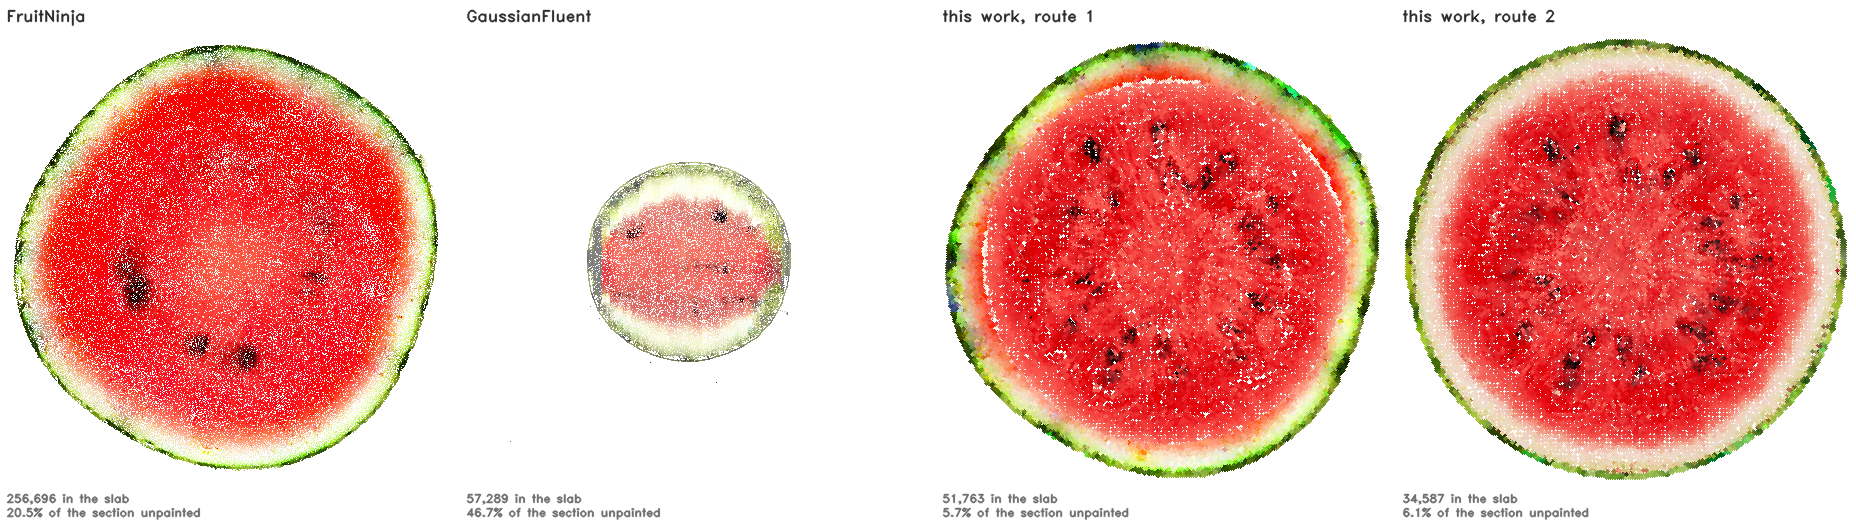
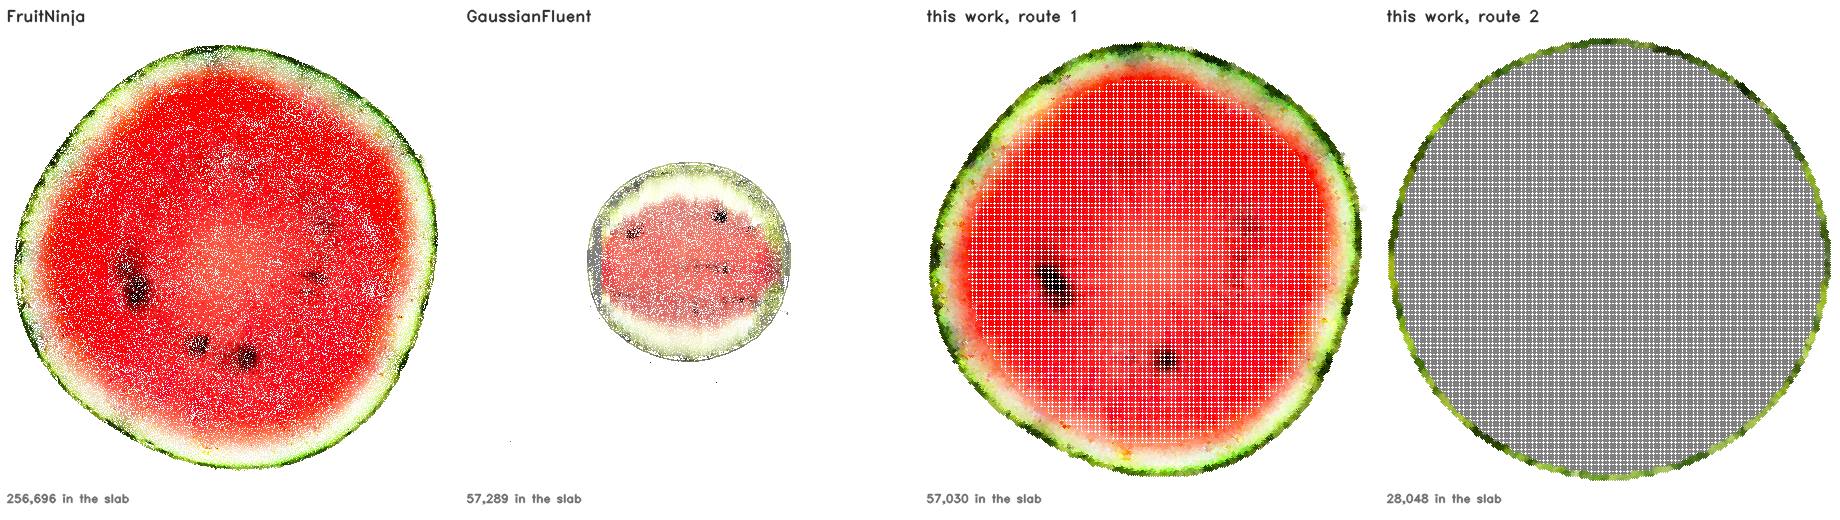
Round two of three
The retracted coverage numbers were still printed inside interiors_compared.png,
so the figure went on asserting what the prose withdrew. slab_compare no longer
draws them and the figure is regenerated; rerunning it also showed our own two
columns are 16.7% and 22.3% rather than the 5.7% and 6.1% the page had, which is
a second reason they are gone.

The skin-fraction correction had been applied to two places out of three and the
stale copy was the paragraph that frames section 4.1. The conclusion still said
'coverage is not the differentiator' while the abstract and the new sweep said
the opposite. Both fixed.

The rho reference is a piecewise-constant nearest-cell lookup and the page cited
equation (18), which is trilinear and has a one-cell support -- the distinction
the whole argument rests on. The collapse sweep is against the uncollapsed grid
and not an analytic surface, so it measures what the collapse discards.

The shell experiment is now honest about its field: it is not equation (14) but
the weak two-rule field, its numbers are the orange preset applied to the
doughnut, and because the interior is graded the shell-to-stiffest-interior
contrast is 1.33x rather than the 13x quoted.

Equation (9) had no prose anywhere; it has a paragraph. q_P, epsilon, E_min,
E_max and the percentile's domain are defined. The resolution sweep states its
six cuts, its one object and its spread. The orphaned blue-channel table has a
[…]

diff --git a/index.html b/index.html
@@ -688,7 +688,8 @@ $$ \mathbf{k}(\mathbf{p}) = \left\lfloor \frac{\mathbf{p} - \mathbf{o}}{h_\ell} 
 figure writes them \(h_e\) and \(h_0\). Two symbols are reused in this paper and it is worth
 saying so once: \(\tau\) is the dual-grid collapse tolerance in equation&nbsp;(12) and the
 shell-to-solver-grid ratio in equation&nbsp;(15), and \(\beta\) is the skin band width in fine
-cells in equations (2), (6) and (15) and a material class's shell fraction in equation&nbsp;(14).
+cells in equations (2) and (6) and in the prose around (15), and a material class's shell fraction
+in equation&nbsp;(14).
 They are unrelated quantities that convention gives the same letters.</p>
 
 <p>With the origin \(\mathbf{o}\) of equation&nbsp;(1) offset by half a cell. The offset is not
@@ -824,6 +825,13 @@ $$ q(\mathbf{k}) = \operatorname{sgn}\!\left(\mathbf{n}\cdot\mathbf{x}_{\mathbf{
 $$ \left|\mathbf{n}\cdot\mathbf{x} + d\right| \;\le\; \tfrac{1}{2}\,h \textstyle\sum_a \left|n_a\right| $$
 </div><div class="num">(9)</div></div>
 
+<p>Equation (9) is the crossing test, and it is used twice. A cell of side \(h\) centred at
+\(\mathbf{x}\) is cut by the plane exactly when its centre lies within half the cell's diagonal
+extent along \(\mathbf{n}\), which is the right-hand side; that decides which cells are refined.
+It also bounds how far a point inside a cell can be from the plane, which is what section 4.3.5
+uses to explain why occupancy alone claims material on both sides of a cut and why one sign test
+removes exactly that band and nothing else.</p>
+
 <p>Adjacency is arithmetic too. A leaf's neighbour is at its own level or coarser (were it finer, the finer leaves on the shared face would find this one), so the coarser candidate is the
 neighbour's coordinate shifted right, which is floor division and therefore the cell containing
 it. With \(Q\) planes a leaf carries a <em>side code</em>, the \(Q\) signs at its centre, and
@@ -852,8 +860,7 @@ $$ \Pi_{\mathbf{k}} = \bigl\{\, \mathbf{x} \in C_{\mathbf{k}} :
 
 <p>Converting only the cut face would require a second renderer and a per-pixel visibility rule
 between it and the first; converting the whole boundary removes both. It is also necessary rather
-than convenient: a Gaussian shell covers only a fifth to a quarter of the frame at alpha above one half on the
-objects measured here, and 7 to 20% on the ones the previous project measured, so
+than convenient: a Gaussian shell covers only 7 to 20% of the frame at alpha above one half, so
 at the silhouette a cut face shows through from the side it should be hidden on.</p>
 
 <p>Converting only the cut face and leaving the photographed outside as Gaussians is what makes
@@ -898,8 +905,12 @@ $$ \sqrt{r / w} \;\le\; \tau\,h, \qquad w = \text{planes the block covers}, $$
 <h4>3.7.2&ensp;Collapse tolerance against surface error</h4>
 
 <p>The collapse has one parameter, \(\tau\) in equation (12), and what it buys has to be read
-against what it costs. Sweeping it on a shape whose exact surface is known gives both at once: the
-node count that survives, and how far the surface moved to reach it.</p>
+against what it costs. Sweeping it on the orange's own dual grid gives both at once: the node
+count that survives, and how far the surface moved to reach it. The distances are to the
+uncollapsed grid and not to an analytic surface, so this is a self-consistency measure of what the
+collapse discards rather than a surface-error measure against ground truth; the identity row
+reproduces the uncollapsed mesh, which is what makes it the reference. All distances are in units
+of \(h\).</p>
 
 <div class="tw"><table>
 <thead><tr><th>\(\tau\)</th><th>nodes</th><th>of uniform</th><th>node&nbsp;&rarr;&nbsp;surface</th><th>surface&nbsp;&rarr;&nbsp;node</th><th>symmetric</th><th>95th</th><th>triangles</th></tr></thead>
@@ -927,9 +938,12 @@ refined.</p>
 
 <div class="eq"><div class="body">
 $$ \operatorname{occ}_P(\mathbf{x}) \;=\;
-   \bigl[\, \operatorname{leaf}(\mathbf{x}) \in P \,\bigr] \;\wedge\;
-   \bigl[\, q_P \left(\mathbf{n}\cdot\mathbf{x} + d\right) > 0 \,\bigr] $$
+   \bigl[\, \operatorname{leaf}(\mathbf{x}) \in P \,\bigr] \;\wedge\;   \bigl[\, q_P \left(\mathbf{n}\cdot\mathbf{x} + d\right) > 0 \,\bigr] $$
 </div><div class="num">(13)</div></div>
+
+<p>\(q_P \in \{+1, -1\}\) is the side of the plane piece \(P\) lies on, taken as the sign
+that the majority of its leaves carry under equation&nbsp;(8); \(\operatorname{leaf}(\mathbf{x})\)
+is the leaf containing \(\mathbf{x}\), found by the floor division of equation&nbsp;(4).</p>
 
 <p>Near the cut the voxel test claims material up to half a leaf past where the cut is, because a
 leaf the plane passes through is occupied as a whole. One comparison fixes it: the point must be on
@@ -943,12 +957,14 @@ the ordering rather than the absolute value is the claim,</p>
 
 <div class="eq"><div class="body">
 $$ u_j = 0.65\,\beta_j + 0.35\,\mathcal{R}(L)_j,
-   \qquad
-   E_j = E_{\min} + \mathcal{R}(u)_j \,\bigl( E_{\max} - E_{\min} \bigr) $$
+   \qquad   E_j = E_{\min} + \mathcal{R}(u)_j \,\bigl( E_{\max} - E_{\min} \bigr) $$
 </div><div class="num">(14)</div></div>
 
 <p>where \(\beta_j\) is the fraction of class \(j\)'s cells in the skin band, \(L_j\) its
-mean luminance, and \(\mathcal{R}\) the rank normalised to \([0,1]\). Each piece then carries a
+mean luminance, \(\mathcal{R}\) the rank normalised to \([0,1]\), and
+\(E_{\min} = 10^5\), \(E_{\max} = 5\times10^6\) the ends of the range the ordering is mapped
+onto. The weights 0.65 and 0.35 are the previous project's and are fixed rather than fitted; what
+is claimed is the ordering they produce, not the values. Each piece then carries a
 per-particle stiffness field instead of one modulus, and the solver runs once per piece.</p>
 
 <p>Whether the solver can see any of that is a separate question, and it is decided before the
@@ -960,9 +976,10 @@ governs a hard shell is the shell's thickness in the solver's own units,</p>
 $$ \tau = \frac{t_{\text{shell}} / L}{\Delta x}, \qquad
    \Delta x = \frac{\text{grid\_lim}}{n_{\text{grid}}}, \qquad
    t_{\text{shell}} = P_{90}\Bigl( \min_{\mathbf{k}' \notin \mathcal{S}}
-       \lVert \mathbf{x}_{\mathbf{k}} - \mathbf{x}_{\mathbf{k}'} \rVert \Bigr)
-       + \tfrac{1}{2} h_f $$
+       \lVert \mathbf{x}_{\mathbf{k}} - \mathbf{x}_{\mathbf{k}'} \rVert \Bigr)       + \tfrac{1}{2} h_f $$
 </div><div class="num">(15)</div></div>
+
+<p>The percentile in (15) is over the shell cells \(\mathbf{k} \in \mathcal{S}\).</p>
 
 <p>where \(L\) is the object's own extent, because the solver normalises the object into its
 grid box and a world length only reaches \(\Delta x\) through that scaling; \(\text{grid\_lim}\)
@@ -991,12 +1008,12 @@ reaches further without a length scale being chosen anywhere,</p>
 
 <div class="eq"><div class="body">
 $$ w_{vj} = \frac{\tilde{w}_{vj}}{\sum_{j'} \tilde{w}_{vj'}}, \qquad
-   \tilde{w}_{vj} = \Bigl( 1 - r_{vj}^2 \Bigr)_{\!+}^{3} + \varepsilon, \qquad
-   r_{vj} = \frac{\lVert \mathbf{x}_v(0) - \mathbf{x}_j(0) \rVert}
+   \tilde{w}_{vj} = \Bigl( 1 - r_{vj}^2 \Bigr)_{\!+}^{3} + \varepsilon, \qquad   r_{vj} = \frac{\lVert \mathbf{x}_v(0) - \mathbf{x}_j(0) \rVert}
                  {\max_{j' \in \mathcal{N}_k(v)} \lVert \mathbf{x}_v(0) - \mathbf{x}_{j'}(0) \rVert} $$
 </div><div class="num">(17)</div></div>
 
-<p>Because the weights sum to one and are fixed at bind time, any affine motion of the particles is
+<p>\(\varepsilon = 10^{-12}\), which only keeps the outermost weight from being exactly zero.
+Because the weights sum to one and are fixed at bind time, any affine motion of the particles is
 followed exactly: substituting \(\mathbf{x}_j(t) = \mathbf{A}\mathbf{x}_j(0) + \mathbf{b}\)
 into (16) gives \(\mathbf{x}_v(t) = \mathbf{A}\mathbf{x}_v(0) + \mathbf{b}\), which is why the
 residual below is a statement about bending and not about drift.</p>
@@ -1078,11 +1095,11 @@ object.</p>
 
 <p>Every downstream operation reads three things and nothing else: occupancy at two levels, face
 adjacency, and one feature per cell. Both routes emit exactly these, so cutting, the physics and
-the material field cannot tell which route produced a lattice. One stage can, and it is the surface
-conversion: it colours from skin cells when they are more than a fifth of the lattice, and a
-generated lattice is 44 to 53% skin where a quantised one is 13.5%, so the two fall on opposite
-sides of that test. That exception is stated here rather than at the end because it is the only
-one, and the rest of this section measures the operations for which the claim holds.</p>
+the material field cannot tell which route produced a lattice. One stage can distinguish two lattices, and it turns out
+not to distinguish the routes: the surface conversion colours from skin cells when they are more
+than a fifth of the lattice, and which side of that test a lattice falls on depends on the object.
+The note below gives the six measured skin fractions. The rest of this section measures the
+operations for which the route-independence claim holds.</p>
 
 <h4>4.1.1&ensp;Four properties of the cut</h4>
 
@@ -1197,18 +1214,19 @@ therefore be compared on the same object, from the same source file.</p>
 
 <p>Storage says what each costs, not what each produced. Every method has its own frame, scale and
 renderer, so a comparison of the interiors routes through none of them: for each model, the plane
-through its own centroid, the primitives within a slab 1% of its own extent, projected
-orthographically, normalised by its own projected radius, opaque and nearest-first, which all three
+through its own centroid, the primitives within a slab of half-width 1% of its own extent, so
+2% thick, projected orthographically, normalised by its own projected radius, opaque and nearest-first, which all three
 are, at median and tenth-percentile opacity 1.0000.</p>
 
 <figure>
   <img src="assets/interiors_compared.png" alt="A watermelon cross-section from four
-       representations: FruitNinja, GaussianFluent, and this work's two routes">
-  <figcaption>The same slab through the same fruit, four ways, with every primitive drawn at its
+       representations: FruitNinja, GaussianFluent, and this work's two routes">  <figcaption>The same slab through the same fruit, four ways, with every primitive drawn at its
   own footprint: \(\sigma\) for a Gaussian, \(h\) for a cell. GaussianFluent's sits smaller in
-  frame because its released model's bounding box carries more than the melon and the normalisation
-  is per model. Read this as what each primitive <em>covers</em>, and not as what each method draws:
-  the next paragraph is why.</figcaption>
+  frame because each model is normalised by its own projected radius and its released file carries
+  more than the melon. This figure used to have an unpainted percentage printed under each tile and
+  no longer does, because those numbers were reported as cut-face fidelity and are not: read it as
+  what each primitive <em>covers</em>, which is the question it does answer, and see the table
+  below for what each method draws.</figcaption>
 </figure>
 
 <div class="note"><strong>An earlier version of this page reported that figure's unpainted
@@ -1242,8 +1260,10 @@ Gaussian, and the sentence an earlier version of this page put here, that a cube
 without a parameter, was not supported by it.</p>
 
 <p>And a coverage number at one pixel count says nothing, which is the objection that retired the
-footprint figure and applies here too. Swept over resolution, on twelve cuts each, with the cube
-volume rendered by cube lookup rather than by splatting:</p>
+footprint figure and applies here too. Swept over resolution, on the watermelon, six transverse
+cuts per cell, with the cube volume rendered by cube lookup rather than by splatting. The row above
+is a hundred cuts at 512&nbsp;px and these are six at each of three sizes; they are separate
+experiments and the counts are given so they are not read as one:</p>
 
 <div class="tw"><table>
 <thead><tr><th>unpainted inside the section, watermelon</th><th>256&nbsp;px</th><th>1024&nbsp;px</th><th>2048&nbsp;px</th></tr></thead>
@@ -1256,13 +1276,15 @@ volume rendered by cube lookup rather than by splatting:</p>
 </tbody></table></div>
 
 <p>This is the claim, and it is not the one the withdrawn figure made. Coverage from a splatted
-representation is resolution-dependent for every model including ours: at 512&nbsp;px they are all
-under a percent and indistinguishable, and by 2048&nbsp;px GaussianFluent's section is 39%
-background, FruitNinja's 2.4% and our own splatted lattice's 3.3%. The cube volume does not move,
+representation is resolution-dependent for every model including ours: at 256&nbsp;px they are all
+under two tenths of a percent and indistinguishable, and by 2048&nbsp;px GaussianFluent's section
+is 39% background (32.9 to 49.5 across the six cuts), FruitNinja's 2.4% (1.5 to 3.4) and our own
+splatted lattice's 3.3% (2.5 to 3.8), against the cube volume's 0.06% (0.05 to 0.07). The cube volume does not move,
 0.02% to 0.06% over three octaves, because a cell's support is the cell and a pixel either falls
 inside an occupied one or does not. What a Gaussian buys with enough primitives at a chosen zoom, a
-cube has by construction at every zoom, and that is a property of the representation rather than a
-number that happens to come out well.</p>
+cube has by construction at every zoom, and that follows from what a cell is rather than from a
+number that happened to come out well. It is measured on one object at three image sizes, on six
+cuts each, and the other two objects and the intervening sizes are not run.</p>
 
 <div class="tw"><table>
 <thead><tr><th>watermelon</th><th>FruitNinja</th><th>GaussianFluent</th><th>this work, route 1</th><th>route 2</th></tr></thead>
@@ -1295,7 +1317,10 @@ number that happens to come out well.</p>
 bigger. FruitNinja [3] asserts the trade in the form \(\rho \ll 1\) leaves holes in the volume and
 \(\rho \gtrsim 1\) blends across material boundaries, and asserting a trade is not the same as
 showing that no setting of its parameter escapes one. This measures both branches against a reference with no scale
-parameter at all: the cube lookup of equation (18), which reads the cell containing each pixel.
+parameter at all: a piecewise-constant cube lookup that gives each pixel the colour of the cell
+containing it, so every cell edge is a step and there is no support to tune. That is not equation
+(18), which reconstructs trilinearly over eight cell centres and therefore has a one-cell support
+of its own.
 Holes are pixels inside the true section the Gaussian render left as background. Blending is how
 much more the Gaussian render disagrees with that reference <em>at material boundaries</em> than it
 does away from them, since a large Gaussian disagrees with a piecewise-constant reference
@@ -1318,12 +1343,15 @@ everywhere simply by being smooth, and only the excess is blending.</p>
 <tr><td>3.00</td><td>0.0%</td><td>+0.197</td><td>0.0%</td><td>+0.105</td><td class="mut">n/a</td><td class="mut">n/a</td></tr>
 </tbody></table></div>
 
-<p>At 1024&nbsp;px, on this work's own primitive set so that only \(\sigma\) changes. Both branches
+<p>At 1024&nbsp;px, one plane through the middle of each object, the same plane for every
+\(\rho\), on this work's own primitive set so that only \(\sigma\) changes. The doughnut's
+missing cells are values not swept for it rather than failures. Both branches
 are there and neither is avoidable, but the curve is not the one that assertion implies. The hole
 branch does not bite gradually below one: it is flat and severe from \(10^{-4}\) to \(0.05\) and
 then collapses to nothing between 0.10 and 0.25. The blending branch rises through \(\rho = 2\) on all
-three objects, to a mean absolute colour disagreement of 0.23 at material boundaries beyond what
-the same render shows away from them; on the orange it then falls back to 0.197 at \(\rho = 3\),
+three objects, reaching a mean absolute colour disagreement at material boundaries, beyond what the
+same render shows away from them, of 0.226 on the orange, 0.097 on the watermelon and 0.074 on the
+doughnut; on the orange it then falls back to 0.197 at \(\rho = 3\),
 where the primitives are large enough to be disagreeing everywhere. Between them is a
 window, roughly \(0.25 \le \rho \le 0.5\), where a Gaussian set does pay very little for either,
 and the models this work trains sit inside it at a median \(\rho\) of 0.26.</p>
@@ -1331,7 +1359,7 @@ and the models this work trains sit inside it at a median \(\rho\) of 0.26.</p>
 <p>So the answer to "just make them bigger" is: on a fixed primitive set it works, within a window
 you have to find, and it is not what the published models do. FruitNinja sits at
 \(\rho = 3\times10^{-5}\) and GaussianFluent lower still, four and six orders of magnitude to the
-left of that window, where the table says 17 to 45% of a section is unpainted for a primitive set
+left of that window, where the table says 16 to 45% of a section is unpainted for a primitive set
 of this size. Their renders are not full of holes because they buy coverage the other way, with 7,959,789 and 1,381,100 primitives against this
 lattice's 1,741,169 quantised and 1,065,856 generated. The sweep above is on the orange's 877,494,
 which is a lattice of one particular size; whether an 8-million-primitive set at \(\rho = 0.25\)
@@ -1649,7 +1677,7 @@ says the doughnut needs about seven fine cells. Building it at four settings:</p
 <h4>4.3.4&ensp;Solver response across the threshold</h4>
 
 <p>The arithmetic says a shell under two grid cells cannot hold a stiffness contrast. Simulating
-both settings says whether that is what happens. The object falls under its own weight with the material field applied, skin at 8.0e6 and interior at 6.0e5 for a contrast of 13&times;, and the solver reports each body's extent along the gravity axis as a fraction of its rest extent,
+both settings says whether that is what happens. The object falls under its own weight with the material field applied, and the solver reports each body's extent along the gravity axis as a fraction of its rest extent,
 separately for the cells the field called skin and the ones it called interior. A hard shell keeps
 its own extent and lets the interior lose more, so the sign of the gap between them is the
 question, not its size.</p>
@@ -1662,6 +1690,16 @@ question, not its size.</p>
 <tr><td>\(\beta = 3\), falling and cut</td><td>1.17</td><td>0.9264</td><td>0.9333</td><td><strong>+0.0070</strong></td></tr>
 <tr><td>\(\beta = 7\), falling and cut</td><td>2.06</td><td>0.9280</td><td>0.9177</td><td><strong>&minus;0.0103</strong></td></tr>
 </tbody></table></div>
+
+<p>Three things about that field, none of them in an earlier version of this section. It is not
+equation&nbsp;(14): it is the weak two-rule field of <code>material_field.py</code>, level deciding
+skin from interior and lightness grading the interior, which is the version a learned decomposition
+has to beat rather than the clustered one equation&nbsp;(14) defines. Its numbers are the
+<code>orange</code> preset, 8.0e6 against 6.0e5, applied to the doughnut. And the interior is
+graded rather than constant, spanning 6.0e5 to 6.0e6, so the contrast between the shell and the
+stiffest interior is 1.33&times; and not the 13&times; a shell-against-softest reading gives. A
+1.33&times; contrast is a weak thing to look for a threshold with, and it is part of why the effect
+is small.</p>
 
 <p>The four gaps are 0.16%, 0.40%, 0.70% and 1.03% of the object's extent, so the effect is a
 fraction of a percent at three of the four settings and reaches 1% at one. Each cell is a single
@@ -1789,7 +1827,7 @@ from.</p>
 
 <div class="tw"><table>
 <thead><tr><th>transverse</th><th></th><th>route 1 (3DGS), the baseline</th><th>route 2 (3DGS)</th>
-<th>route 1 (O&#8209;Voxel)</th><th>route 2 (O&#8209;Voxel)</th></tr></thead>
+<th>route 1 (cube)</th><th>route 2 (cube)</th></tr></thead>
 <tbody>
 <tr><td rowspan="3">orange</td><td>FID</td><td>86.4</td><td><strong>66.5</strong></td><td>130.5</td><td>107.9</td></tr>
 <tr><td>KID</td><td>125.0e-3</td><td><strong>88.7e-3</strong></td><td>208.4e-3</td><td>158.8e-3</td></tr>
@@ -1812,7 +1850,7 @@ from.</p>
 
 <div class="tw"><table>
 <thead><tr><th>longitudinal</th><th></th><th>route 1 (3DGS), the baseline</th><th>route 2 (3DGS)</th>
-<th>route 1 (O&#8209;Voxel)</th><th>route 2 (O&#8209;Voxel)</th></tr></thead>
+<th>route 1 (cube)</th><th>route 2 (cube)</th></tr></thead>
 <tbody>
 <tr><td rowspan="3">orange</td><td>FID</td><td><strong>147.6</strong></td><td>247.3</td><td>292.6</td><td>370.2</td></tr>
 <tr><td>KID</td><td><strong>175.3e-3</strong></td><td>303.7e-3</td><td>437.3e-3</td><td>585.4e-3</td></tr>
@@ -1822,8 +1860,13 @@ from.</p>
 <tr><td>CLIP</td><td>33.4</td><td>33.7</td><td>33.6</td><td><strong>34.7</strong></td></tr>
 </tbody></table></div>
 
+<p>One statistic separates the two routes where FID does not, and it is given here for what it
+is rather than as a result: the mean blue channel over the pulp region of a section, on the orange,
+which is a proxy for how grey the flesh reads. Closer to the photographs is better, and route 2
+matches them transversally and overshoots longitudinally.</p>
+
 <div class="tw"><table>
-<thead><tr><th>pulp, blue channel</th><th>photographs</th><th>baseline</th><th>route 2</th></tr></thead>
+<thead><tr><th>orange, pulp, mean blue channel</th><th>photographs</th><th>route 1</th><th>route 2</th></tr></thead>
 <tbody>
 <tr><td>transverse</td><td>0.149</td><td>0.168</td><td><strong>0.148</strong></td></tr>
 <tr><td>longitudinal</td><td>0.179</td><td>0.221</td><td>0.234</td></tr>
@@ -2089,13 +2132,17 @@ lattice's own advantages survive intact: connectivity, piece identity and collis
 costs, and it is smaller than an earlier version of this work claimed. On the same watermelon the
 interior here is 1,065,856 cells generated or 1,741,169 quantised, against 7,959,789 and 1,381,100
 primitives, and counting the sparse index and the exterior surface the method actually needs,
-62.6 or 163.5&nbsp;MiB against 425.1 and 310.8. Coverage is not the differentiator: through each
-method's own rasteriser every column leaves under a percent of a cut face unpainted, and the 20.5%
-and 46.7% this page previously reported came from drawing each primitive at its own footprint,
+62.6 or 163.5&nbsp;MiB against 425.1 and 310.8. Swept over four decades of \(\rho\) the trade is
+real in both directions, holes below 0.1 and blending above 0.25, and both published models sit far
+to the left of that window and buy their coverage with count instead.</p>
+
+<p>Coverage is where the revision changed the answer. At 512&nbsp;px nothing separates the four
+representations, and by 2048&nbsp;px GaussianFluent's section is 38.7% background, FruitNinja's
+2.4% and this work's own splatted lattice's 3.3%, while the same lattice drawn as a cube volume
+holds 0.06%. That is one object at three image sizes and it is the claim we would defend; the
+20.5% and 46.7% this page once reported came from drawing each primitive at radius \(\sigma/2\),
 which is a fair question about what a primitive covers and the wrong instrument for what a
-renderer draws. Swept over four decades of \(\rho\) the trade is real in both directions, holes
-below 0.1 and blending above 0.25, and both published models sit far to the left of that window and
-buy their coverage with count.</p>
+renderer draws.</p>
 
 <p>Appearance does not pay for that, and the appearance numbers do not all go one way. On the
 orange, every arm here beats FruitNinja's released model, and the arm that beats it by the most
